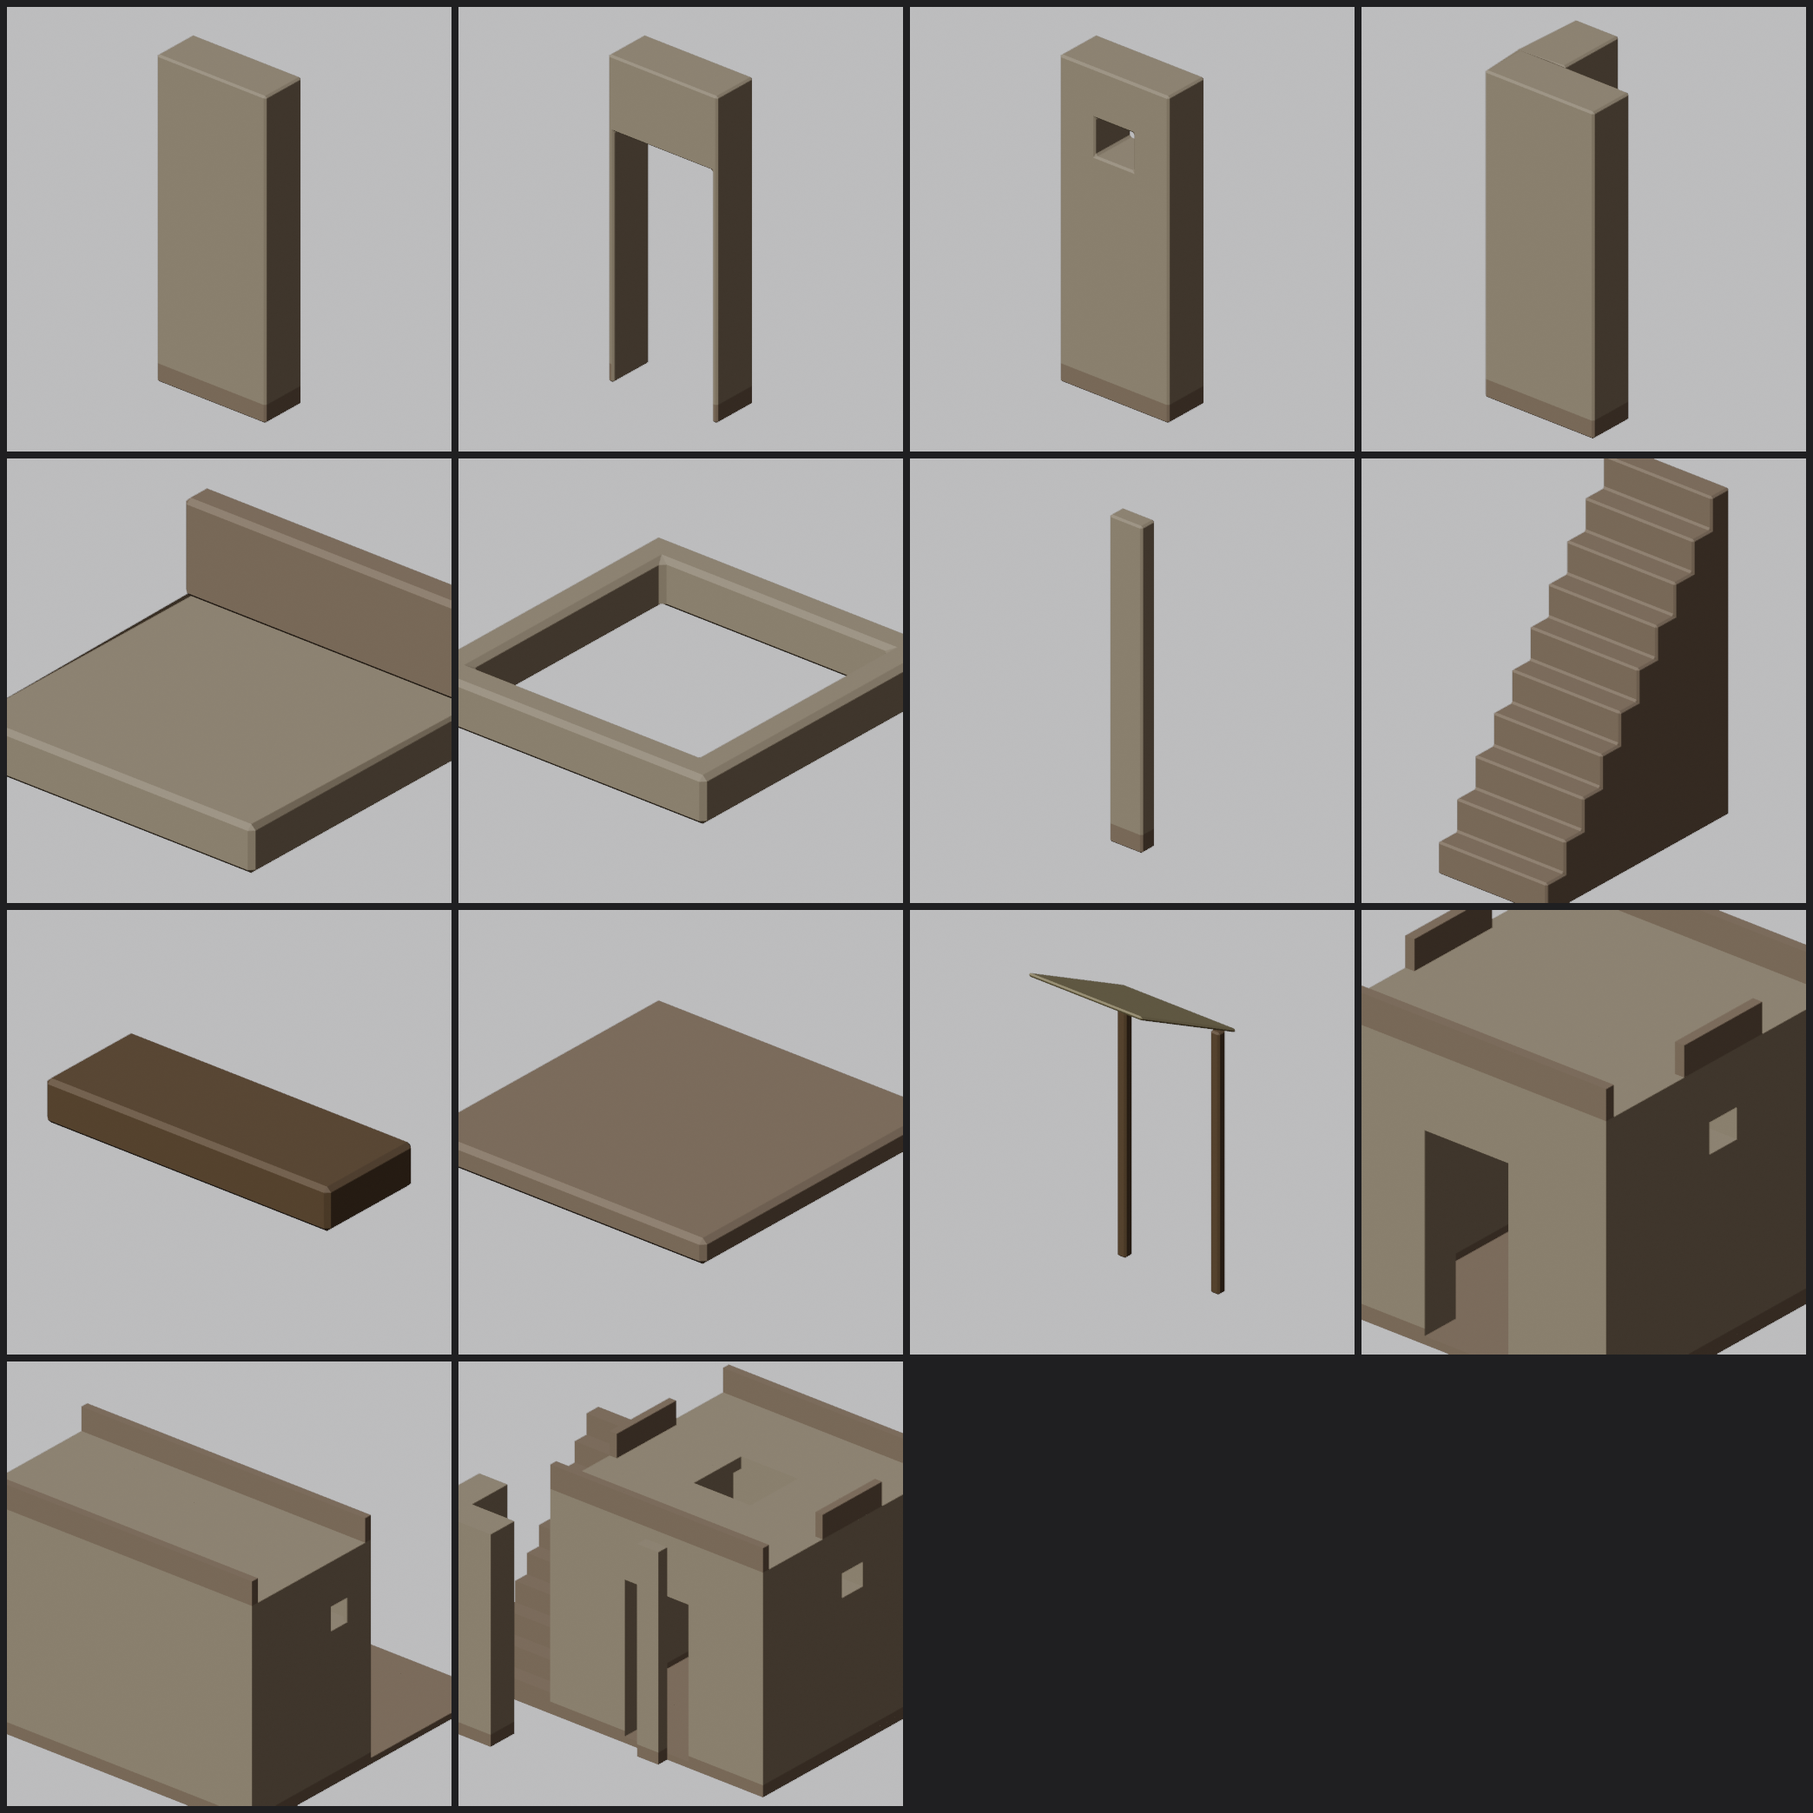
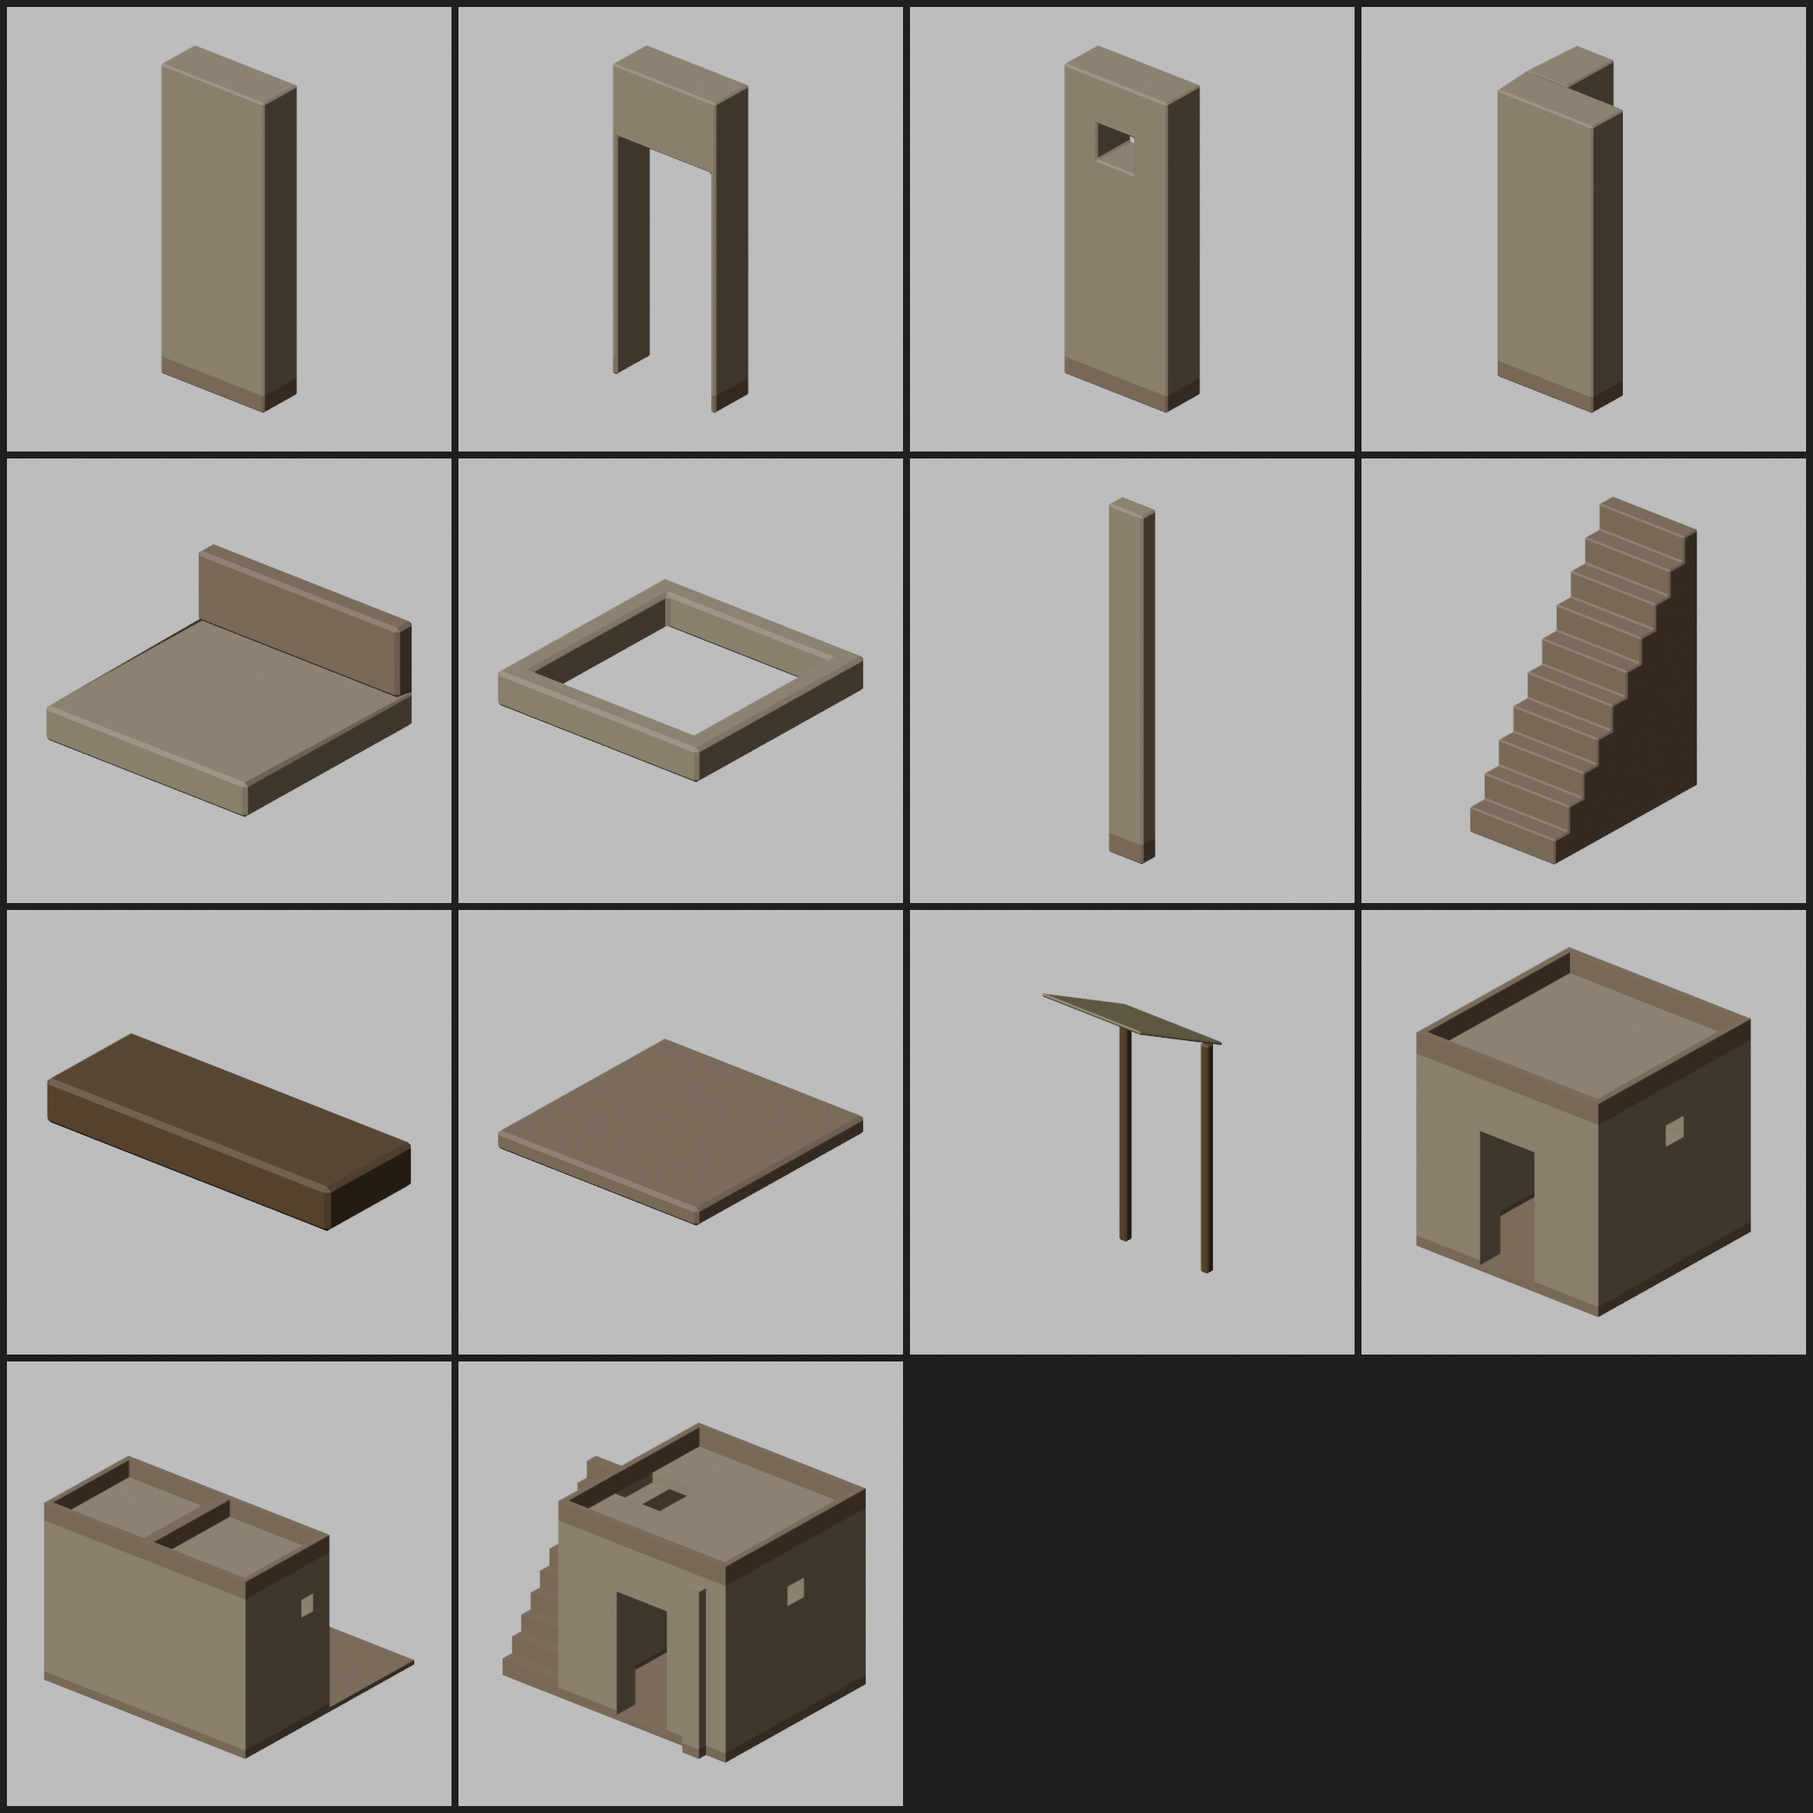
WIP (paused by session limit): uncommitted agent work saved by coordinator

diff --git a/tools/art/assemble_house.py b/tools/art/assemble_house.py
@@ -110,36 +110,38 @@ def build_room_walls(w, d, door_side="south", window_sides=("east",), x0=0, y0=0
 
 
 def build_flat_roof(w, d, height, access_at=None, x0=0, y0=0):
-    """Tile the roof. Parapet only runs on true perimeter tiles, on the
-    single side that faces outward (a corner tile that touches two outer
-    edges only gets a parapet on one of them — the roof_slab piece has a
-    parapet on one edge only; ponytail: simplification, upgrade to a
-    2-edge corner piece if the silhouette needs it). Interior tiles use the
-    no-parapet slab so the roof reads flat, not a checkerboard of walls."""
+    """Tile the roof surface only (no parapet — see build_parapet_ring,
+    which wraps the whole footprint's outer edge in one continuous run
+    instead of stitching per-tile parapet fragments together)."""
     objs = []
     for i in range(w):
         for j in range(d):
             if access_at == (i, j):
                 r = hk.build_roof_access()
-                rot = 0
-            elif j == d - 1:
-                r = hk.build_roof_slab(True)
-                rot = 0
-            elif j == 0:
-                r = hk.build_roof_slab(True)
-                rot = 180
-            elif i == w - 1:
-                r = hk.build_roof_slab(True)
-                rot = 270
-            elif i == 0:
-                r = hk.build_roof_slab(True)
-                rot = 90
             else:
                 r = hk.build_roof_slab(False)
-                rot = 0
-            objs.append(place(r, (x0 + i) * G, (y0 + j) * G, height, rot, CELL_SIZE))
+            objs.append(place(r, (x0 + i) * G, (y0 + j) * G, height, 0, CELL_SIZE))
             bpy.data.objects.remove(r, do_unlink=True)
     return objs
+
+
+def build_parapet_ring(w, d, roof_z, x0=0, y0=0):
+    """One continuous mudbrick parapet wrapping the roof footprint's full
+    outer perimeter (all 4 sides + corners), built directly rather than
+    from per-tile roof_slab parapet edges — a parapet tile per roof tile
+    left gaps at every interior-facing tile edge and a broken look at
+    corners (only one of a corner tile's two outer edges had a parapet)."""
+    bm = kc.new_bmesh()
+    t = kc.PARAPET_T
+    z0 = roof_z + kc.ROOF_THICK
+    z1 = z0 + kc.PARAPET_H
+    x_min, x_max = x0 * G, (x0 + w) * G
+    y_min, y_max = y0 * G, (y0 + d) * G
+    kc.add_box(bm, (x_min, y_min, z0), (x_max, y_min + t, z1), mat_index=0)  # south
+    kc.add_box(bm, (x_min, y_max - t, z0), (x_max, y_max, z1), mat_index=0)  # north
+    kc.add_box(bm, (x_min, y_min, z0), (x_min + t, y_max, z1), mat_index=0)  # west
+    kc.add_box(bm, (x_max - t, y_min, z0), (x_max, y_max, z1), mat_index=0)  # east
+    return kc.finalize_object(bm, "parapet_ring", ["M_Mudbrick"])
 
 
 def build_courtyard_floor(x0, y0, w, d):
@@ -163,15 +165,17 @@ def join_all(objs, name):
     return merged
 
 
-def house_small_single_room():
-    """3x3 single room, one door (south), one window (east), flat roof."""
+def house_small_single_room_objs():
+    """3x3 single room, one door (south), one window (east), flat roof with
+    a continuous parapet."""
     objs = build_room_walls(3, 3, door_side="south", window_sides=("east",))
     objs += build_flat_roof(3, 3, kc.WALL_HEIGHT)
+    objs.append(build_parapet_ring(3, 3, kc.WALL_HEIGHT))
     objs += build_courtyard_floor(0, 0, 3, 3)
-    return join_all(objs, "House_SmallSingleRoom")
+    return objs
 
 
-def house_two_room_courtyard():
+def house_two_room_courtyard_objs():
     """Two 2x2 rooms side by side, each opening onto a shared 4x2 open
     courtyard with a reed awning, per the real courtyard-house plan [A]:
     rooms arranged around an open-air yard, not a fully roofed block.
@@ -183,9 +187,11 @@ def house_two_room_courtyard():
     # room A at x[0..2], y[0..2]; door faces the courtyard (north)
     objs += build_room_walls(2, 2, door_side="north", window_sides=("west",), x0=0, y0=0)
     objs += build_flat_roof(2, 2, kc.WALL_HEIGHT, x0=0, y0=0)
+    objs.append(build_parapet_ring(2, 2, kc.WALL_HEIGHT, x0=0, y0=0))
     # room B at x[2..4], y[0..2]; door also faces the courtyard (north)
     objs += build_room_walls(2, 2, door_side="north", window_sides=("east",), x0=2, y0=0)
     objs += build_flat_roof(2, 2, kc.WALL_HEIGHT, x0=2, y0=0)
+    objs.append(build_parapet_ring(2, 2, kc.WALL_HEIGHT, x0=2, y0=0))
     # courtyard: 4x2 open yard to the north of both rooms
     objs += build_courtyard_floor(0, 2, 4, 2)
     objs += build_courtyard_floor(0, 0, 4, 2)
@@ -194,37 +200,58 @@ def house_two_room_courtyard():
     awning = hk.build_awning()
     objs.append(place(awning, 0.0, 2.0 * G, 0.0, 0, CELL_SIZE))
     bpy.data.objects.remove(awning, do_unlink=True)
-    return join_all(objs, "House_TwoRoomCourtyard")
+    return objs
 
 
-def house_roof_access():
-    """3x3 room with an external stair against the west wall rising to a
-    roof-access hole, for use of the flat roof as a sleeping/living space
-    [A] (standard in the hot Mesopotamian climate)."""
+def house_roof_access_objs():
+    """3x3 room with an external stair against the west wall, flush with
+    the wall face and rising the full storey height to exactly roof level,
+    leading to a roof-access hole one tile in from that wall. Flat roof
+    with a continuous parapet. A buttress pilaster stands against the
+    south wall's exterior face, clear of the door tile."""
     objs = build_room_walls(3, 3, door_side="south", window_sides=("east", "north"))
-    objs += build_flat_roof(3, 3, kc.WALL_HEIGHT, access_at=(1, 1))
+    objs += build_flat_roof(3, 3, kc.WALL_HEIGHT, access_at=(0, 1))
+    objs.append(build_parapet_ring(3, 3, kc.WALL_HEIGHT))
     objs += build_courtyard_floor(0, 0, 3, 3)
+    # stair runs flush against the west wall (x=0), full height, arriving
+    # at roof level right next to the access hole at tile (0,1)
     stair = hk.build_stair()
     objs.append(place(stair, -1.0 * G, 0.0, 0.0, 0, (G, 2 * G)))
     bpy.data.objects.remove(stair, do_unlink=True)
-    # a buttress pilaster projecting off the south wall's exterior face
-    # (decorative + structural reinforcement [A])
+    # buttress pilaster against the south wall's exterior face, on the
+    # tile away from the door (door is the middle tile, i=1) so it never
+    # stands in the doorway
     pil = hk.build_pilaster()
-    objs.append(place(pil, 1.35 * G, -0.15 * G, 0.0, 0, (0.3, 0.15)))
+    objs.append(place(pil, 2.35 * G, -0.15 * G, 0.0, 0, (0.3, 0.15)))
     bpy.data.objects.remove(pil, do_unlink=True)
-    # SM_Corner demonstrated as a standalone L-shaped exterior corner
-    # reinforcement, standing just outside the SW corner (not replacing
-    # any wall geometry, so it can't overlap the walls above).
-    corner = hk.build_corner()
-    objs.append(place(corner, -1.0 * G, -1.0 * G, 0.0, 0, CELL_SIZE))
-    bpy.data.objects.remove(corner, do_unlink=True)
-    return join_all(objs, "House_RoofAccess")
+    return objs
+
+
+def house_small_single_room():
+    return join_all(house_small_single_room_objs(), "House_SmallSingleRoom")
+
+
+def house_two_room_courtyard():
+    return join_all(house_two_room_courtyard_objs(), "House_TwoRoomCourtyard")
+
+
+def house_roof_access():
+    return join_all(house_roof_access_objs(), "House_RoofAccess")
 
 
 HOUSES = [
     ("house_small", house_small_single_room),
     ("house_courtyard", house_two_room_courtyard),
     ("house_roofaccess", house_roof_access),
+]
+
+# name -> pre-join objs builder, used by check_kit.py to validate the
+# assembly (overlap / floater checks) before geometry disappears into one
+# merged mesh.
+HOUSE_OBJS_BUILDERS = [
+    ("House_SmallSingleRoom", house_small_single_room_objs),
+    ("House_TwoRoomCourtyard", house_two_room_courtyard_objs),
+    ("House_RoofAccess", house_roof_access_objs),
 ]
 
 

diff --git a/tools/art/check_kit.py b/tools/art/check_kit.py
@@ -11,18 +11,33 @@ Re-imports each exported piece (both FBX and GLB must exist) and checks:
   4. UV0 (texturing) and UV1 (lightmap) are both present
   5. material slots are named (all M_* slots, matching kit_common.MAT_DEFS)
 
+Then, for each of the 3 example houses, rebuilds it pre-join (via
+assemble_house.HOUSE_OBJS_BUILDERS) and checks the assembly itself:
+  6. no floaters — every placed piece's bounding box must touch another
+     piece's bounding box (or the ground, z=0), within a small tolerance
+  7. no volumetric overlap — no two pieces' bounding boxes may genuinely
+     overlap in all 3 axes beyond a small tolerance (flush/touching faces,
+     which have ~zero overlap in at least one axis, are fine)
+These are bounding-box proxies, not exact mesh boolean checks (ponytail:
+good enough to catch duplicated/misplaced geometry and disconnected
+pieces; upgrade to a real mesh intersection test if a false negative
+shows up).
+
 Exits non-zero if anything fails.
 """
 import bpy
 import os
 import sys
+from mathutils import Vector
 
 sys.path.insert(0, os.path.dirname(os.path.abspath(__file__)))
 import kit_common as kc  # noqa: E402
 import house_kit as hk  # noqa: E402
+import assemble_house as ah  # noqa: E402
 
 REPO_ROOT = hk.REPO_ROOT
 TOL = 0.05  # metres
+BBOX_EPS = 0.01  # metres, for the house-assembly touch/overlap checks
 
 # Documented expected footprint (x, y, z) in metres for each piece, derived
 # from the same constants house_kit.py builds with.
@@ -98,6 +113,58 @@ def check_piece(name, budget_key, out_dir, failures):
           f"uvs={len(mesh.uv_layers)}, mats={[m.name for m in mesh.materials]}")
 
 
+def world_bbox(obj):
+    corners = [obj.matrix_world @ Vector(c) for c in obj.bound_box]
+    xs = [c.x for c in corners]
+    ys = [c.y for c in corners]
+    zs = [c.z for c in corners]
+    return (min(xs), max(xs), min(ys), max(ys), min(zs), max(zs))
+
+
+def check_house_assembly(house_name, objs, failures):
+    bpy.context.view_layer.update()
+    boxes = [world_bbox(o) for o in objs]
+    n = len(boxes)
+
+    # overlap check: real volumetric overlap in all 3 axes, beyond BBOX_EPS
+    for i in range(n):
+        ax0, ax1, ay0, ay1, az0, az1 = boxes[i]
+        for j in range(i + 1, n):
+            bx0, bx1, by0, by1, bz0, bz1 = boxes[j]
+            ox = min(ax1, bx1) - max(ax0, bx0)
+            oy = min(ay1, by1) - max(ay0, by0)
+            oz = min(az1, bz1) - max(az0, bz0)
+            if ox > BBOX_EPS and oy > BBOX_EPS and oz > BBOX_EPS:
+                failures.append(
+                    f"{house_name}: {objs[i].name} overlaps {objs[j].name} "
+                    f"by ({ox:.3f}, {oy:.3f}, {oz:.3f}) m"
+                )
+
+    # floater check: every piece must touch another piece or the ground
+    for i in range(n):
+        ax0, ax1, ay0, ay1, az0, az1 = boxes[i]
+        if abs(az0) <= BBOX_EPS:
+            continue  # sits on the ground
+        touches = False
+        for j in range(n):
+            if i == j:
+                continue
+            bx0, bx1, by0, by1, bz0, bz1 = boxes[j]
+            ox = min(ax1, bx1) - max(ax0, bx0)
+            oy = min(ay1, by1) - max(ay0, by0)
+            oz = min(az1, bz1) - max(az0, bz0)
+            # touching (or overlapping) in all 3 axes, with at least one
+            # axis at ~zero gap (a real face/edge contact, not just two
+            # bounding boxes that happen to overlap through empty space)
+            if ox > -BBOX_EPS and oy > -BBOX_EPS and oz > -BBOX_EPS:
+                touches = True
+                break
+        if not touches:
+            failures.append(f"{house_name}: {objs[i].name} is a floater (touches nothing)")
+
+    print(f"checked {house_name} assembly: {n} pieces")
+
+
 def main():
     args = kc.parse_args(sys.argv)
     out_dir = args.get("out", "art/generated")
@@ -116,6 +183,12 @@ def main():
 
     for name, budget_key in name_to_budget.items():
         check_piece(name, budget_key, out_dir, failures)
+
+    for house_name, build_objs_fn in ah.HOUSE_OBJS_BUILDERS:
+        kc.clear_scene()
+        objs = build_objs_fn()
+        check_house_assembly(house_name, objs, failures)
+    kc.clear_scene()
 
     if failures:
         print("\nFAILURES:")

diff --git a/tools/art/thumbs.py b/tools/art/thumbs.py
@@ -13,6 +13,7 @@ import bpy
 import math
 import os
 import sys
+from mathutils import Vector
 
 sys.path.insert(0, os.path.dirname(os.path.abspath(__file__)))
 import kit_common as kc  # noqa: E402
@@ -43,24 +44,43 @@ def setup_render_scene():
     return cam
 
 
-def frame_camera(cam, obj):
-    bbox = [obj.matrix_world @ __import__("mathutils").Vector(c) for c in obj.bound_box]
-    xs = [v.x for v in bbox]
-    ys = [v.y for v in bbox]
-    zs = [v.z for v in bbox]
-    cx, cy, cz = (min(xs) + max(xs)) / 2, (min(ys) + max(ys)) / 2, (min(zs) + max(zs)) / 2
-    radius = max(max(xs) - min(xs), max(ys) - min(ys), max(zs) - min(zs), 0.3) / 2
+# Fixed 3/4 view direction (camera sits along +VIEW_DIR from the subject,
+# looking back along -VIEW_DIR) — the same angle for every render.
+_AZ, _EL = math.radians(-40), math.radians(28)
+VIEW_DIR = Vector((
+    math.cos(_EL) * math.sin(_AZ) * -1,
+    math.cos(_EL) * math.cos(_AZ) * -1,
+    math.sin(_EL),
+)).normalized()
+MARGIN = 1.2  # fraction of headroom around the tight projected bounding box
 
-    az, el = math.radians(-40), math.radians(28)
-    dist = radius * 3.2
-    cam.location = (
-        cx + dist * math.cos(el) * math.sin(az) * -1,
-        cy + dist * math.cos(el) * math.cos(az) * -1,
-        cz + dist * math.sin(el),
-    )
-    direction = __import__("mathutils").Vector((cx, cy, cz)) - cam.location
-    cam.rotation_euler = direction.to_track_quat("-Z", "Y").to_euler()
-    cam.data.ortho_scale = radius * 2.4
+
+def frame_camera(cam, obj):
+    """Frame obj fully in view: same fixed angle every time, but the
+    orthographic scale and camera distance are derived from obj's own
+    bounding box (projected into camera space), so nothing gets clipped
+    regardless of the object's size or aspect ratio."""
+    corners = [obj.matrix_world @ Vector(c) for c in obj.bound_box]
+    center = sum(corners, Vector((0.0, 0.0, 0.0))) / 8
+    radius = max((c - center).length for c in corners)
+    dist = max(radius * 4.0, 2.0)
+
+    cam.location = center + VIEW_DIR * dist
+    cam.rotation_euler = (-VIEW_DIR).to_track_quat("-Z", "Y").to_euler()
+    cam.data.clip_end = dist * 4.0 + radius * 4.0
+
+    # project the bounding box into the camera's own local space to get
+    # the exact width/height that must fit in frame (a single "radius"
+    # heuristic under-fits elongated objects like the stair or a 3-room
+    # house), then apply a margin.
+    bpy.context.view_layer.update()
+    inv = cam.matrix_world.inverted()
+    local_pts = [inv @ c for c in corners]
+    us = [p.x for p in local_pts]
+    vs = [p.y for p in local_pts]
+    width = max(us) - min(us)
+    height = max(vs) - min(vs)
+    cam.data.ortho_scale = max(width, height, 0.3) * MARGIN
 
 
 def render_object(obj, cam, out_path):
